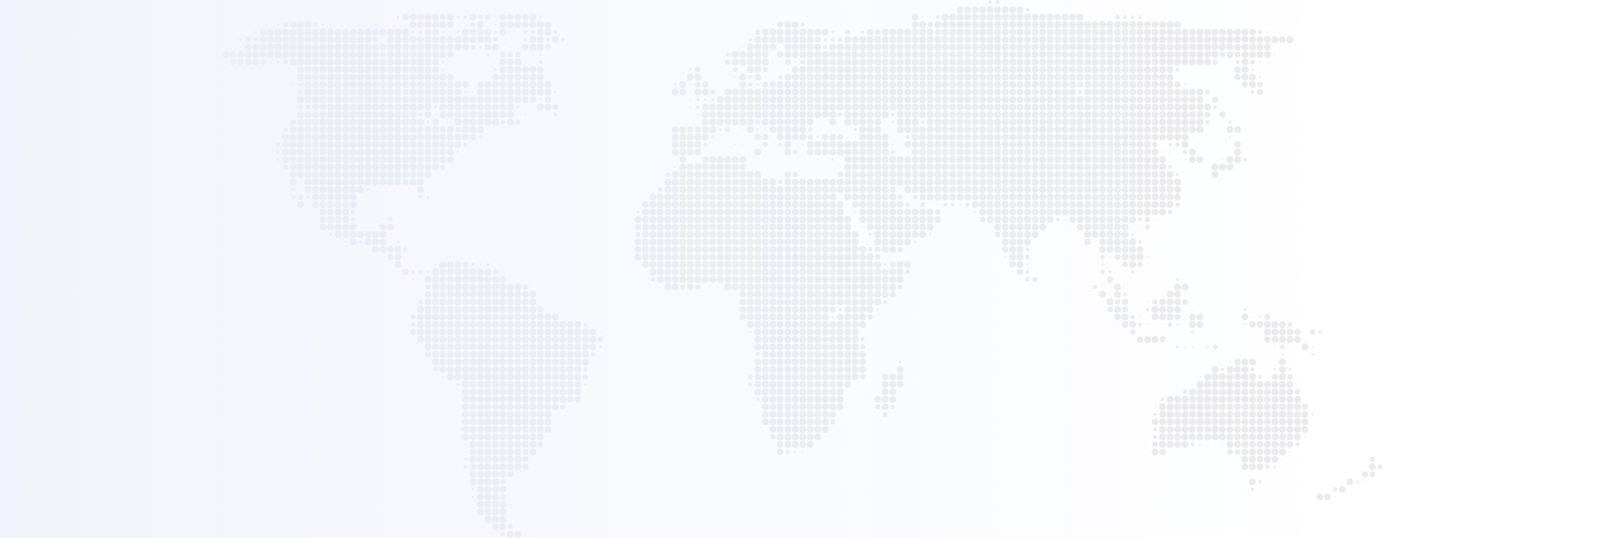
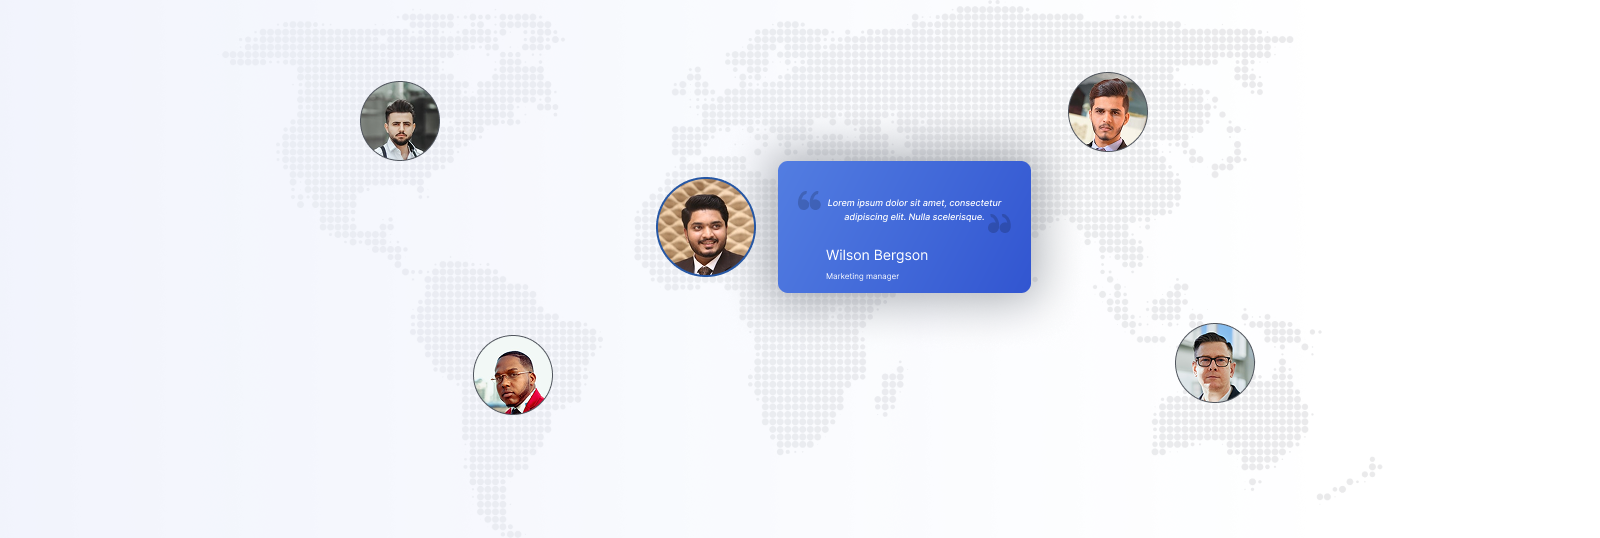
map for mobile

diff --git a/public/index.html b/public/index.html
@@ -62,8 +62,10 @@
 
 
 <!--helpful-->
-<section class="mt-25 mb-25">
-    <div class="container mx-auto px-4 max-w-[1400px] flex flex-col md:grid md:grid-cols-2 items-center md:justify-center gap-8 md:gap-18">
+<section class="md:mt-16 md:mb-25 mt-10 mb-0">
+    <div class="container mx-auto px-4 max-w-[1400px] flex flex-col-reverse md:grid md:grid-cols-2 items-center md:justify-center gap-8 md:gap-18">
+
+        <img src="./img/illustrations/people_sitting_svg.svg" alt="" class="hidden md:block">
         
         <div class="grid-cols-1">
             <h2 class="mb-10 text-[var(--black)] text-center md:text-left text-[1.8rem] md:text-4xl font-semibold leading-[1.1]">
@@ -76,7 +78,7 @@
                     <img src="./img/arrows/orange_arrow_svg.svg" alt="" class="w-max">
                     <div class="grid-cols-1">
                     <h4 class="mb-4 text-2xl text-left text-[var(--black)] font-medium duration-400 ease-in-out transition-all price-header">Ultra fast & Secure</h4>
-                    <p class ="text-[var(--gray)]">Lorem ipsum, dolor sit amet consectetur adipisicing elit. Fuga nulla commodi expedita facilis exercitationem voluptatem laboriosam ab iure dolore molestias.</p>
+                    <p class ="text-[var(--gray)]">Our SaaS platform ensures ultra-fast performance with top-tier encryption, enabling users to experience smooth, real-time interactions without compromising on data privacy, compliance, or end-to-end security protocols.</p>
                     </div>
                 </div>
 
@@ -85,7 +87,7 @@
                     <img src="./img/arrows/green_arrow_svg.svg" alt="" class="w-max">
                     <div class="grid-cols-1">
                     <h4 class="mb-4 text-2xl text-left text-[var(--black)] font-medium duration-400 ease-in-out transition-all price-header">Allow cutomization</h4>
-                    <p class ="text-[var(--gray)]">Lorem ipsum, dolor sit amet consectetur adipisicing elit. Fuga nulla commodi expedita facilis exercitationem voluptatem laboriosam ab iure dolore molestias.</p>
+                    <p class ="text-[var(--gray)]">Designed for flexibility, our SaaS allows teams to personalize dashboards, workflows, and UI components, ensuring every organization can tailor the software to meet their specific needs without touching the core code.</p>
                     </div>
                 </div>
 
@@ -94,13 +96,11 @@
                     <img src="./img/arrows/blue_arrow_svg.svg" alt="" class="w-max">
                     <div class="grid-cols-1">
                     <h4 class="mb-4 text-2xl text-left text-[var(--black)] font-medium duration-400 ease-in-out transition-all price-header">Smart contract</h4>
-                    <p class ="text-[var(--gray)]">Lorem ipsum, dolor sit amet consectetur adipisicing elit. Fuga nulla commodi expedita facilis exercitationem voluptatem laboriosam ab iure dolore molestias.</p>
+                    <p class ="text-[var(--gray)]">With built-in smart contract integration, our system automates complex transactions, reducing manual errors and enhancing trust, especially for SaaS products that handle digital agreements, billing, or legal workflows.</p>
                     </div>
                 </div>
             </div>
         </div>
-
-
     </div>
 </section>
 
@@ -239,6 +239,16 @@
         </div>
 </section>
 
+
+<!--map/-->
+<section class="mb-14">
+        <div class="container mx-auto px-4 max-w-[1400px] flex flex-col items-center justify-center">
+        <h2 class="mb-6 text-[var(--black)] text-center text-[1.8rem] md:text-4xl font-semibold leading-[1.1]">Let's see our User's Review</h2>
+        <p class="mb-12 text-[var(--gray)] text-center">Discover what real users are saying about their experience with our SaaS <br> trusted, reliable, and built to deliver results that matter.</p>
+        </div>
+
+    <img src="./img/map/map_svg.svg" alt="" class="w-full zoom">
+</section>
 
 <footer class="bg-[var(--light-blue)]">
     <div class="container mx-auto px-4 py-12 md:py-20 max-w-[1400px] flex flex-col-reverse md:flex-row gap-10 md:gap-0 justify-between">

diff --git a/public/css/output.css b/public/css/output.css
@@ -233,14 +233,26 @@
   .mx-auto {
     margin-inline: auto;
   }
+  .mt-0 {
+    margin-top: calc(var(--spacing) * 0);
+  }
+  .mt-4 {
+    margin-top: calc(var(--spacing) * 4);
+  }
   .mt-6 {
     margin-top: calc(var(--spacing) * 6);
+  }
+  .mt-10 {
+    margin-top: calc(var(--spacing) * 10);
   }
   .mt-14 {
     margin-top: calc(var(--spacing) * 14);
   }
   .mt-25 {
     margin-top: calc(var(--spacing) * 25);
+  }
+  .mb-0 {
+    margin-bottom: calc(var(--spacing) * 0);
   }
   .mb-4 {
     margin-bottom: calc(var(--spacing) * 4);
@@ -254,8 +266,14 @@
   .mb-10 {
     margin-bottom: calc(var(--spacing) * 10);
   }
+  .mb-12 {
+    margin-bottom: calc(var(--spacing) * 12);
+  }
   .mb-14 {
     margin-bottom: calc(var(--spacing) * 14);
+  }
+  .mb-16 {
+    margin-bottom: calc(var(--spacing) * 16);
   }
   .mb-25 {
     margin-bottom: calc(var(--spacing) * 25);
@@ -376,9 +394,6 @@
   }
   .gap-4 {
     gap: calc(var(--spacing) * 4);
-  }
-  .gap-6 {
-    gap: calc(var(--spacing) * 6);
   }
   .gap-7 {
     gap: calc(var(--spacing) * 7);
@@ -508,6 +523,15 @@
   .py-16 {
     padding-block: calc(var(--spacing) * 16);
   }
+  .pt-8 {
+    padding-top: calc(var(--spacing) * 8);
+  }
+  .pt-10 {
+    padding-top: calc(var(--spacing) * 10);
+  }
+  .pb-8 {
+    padding-bottom: calc(var(--spacing) * 8);
+  }
   .text-center {
     text-align: center;
   }
@@ -581,6 +605,9 @@
   }
   .text-\[var\(--white\)\] {
     color: var(--white);
+  }
+  .text-\[var\] {
+    color: var;
   }
   .underline {
     text-decoration-line: underline;
@@ -743,6 +770,31 @@
   .md\:-bottom-\[10px\] {
     @media (width >= 48rem) {
       bottom: calc(10px * -1);
+    }
+  }
+  .md\:mt-16 {
+    @media (width >= 48rem) {
+      margin-top: calc(var(--spacing) * 16);
+    }
+  }
+  .md\:mt-18 {
+    @media (width >= 48rem) {
+      margin-top: calc(var(--spacing) * 18);
+    }
+  }
+  .md\:mt-20 {
+    @media (width >= 48rem) {
+      margin-top: calc(var(--spacing) * 20);
+    }
+  }
+  .md\:mt-25 {
+    @media (width >= 48rem) {
+      margin-top: calc(var(--spacing) * 25);
+    }
+  }
+  .md\:mb-25 {
+    @media (width >= 48rem) {
+      margin-bottom: calc(var(--spacing) * 25);
     }
   }
   .md\:block {
